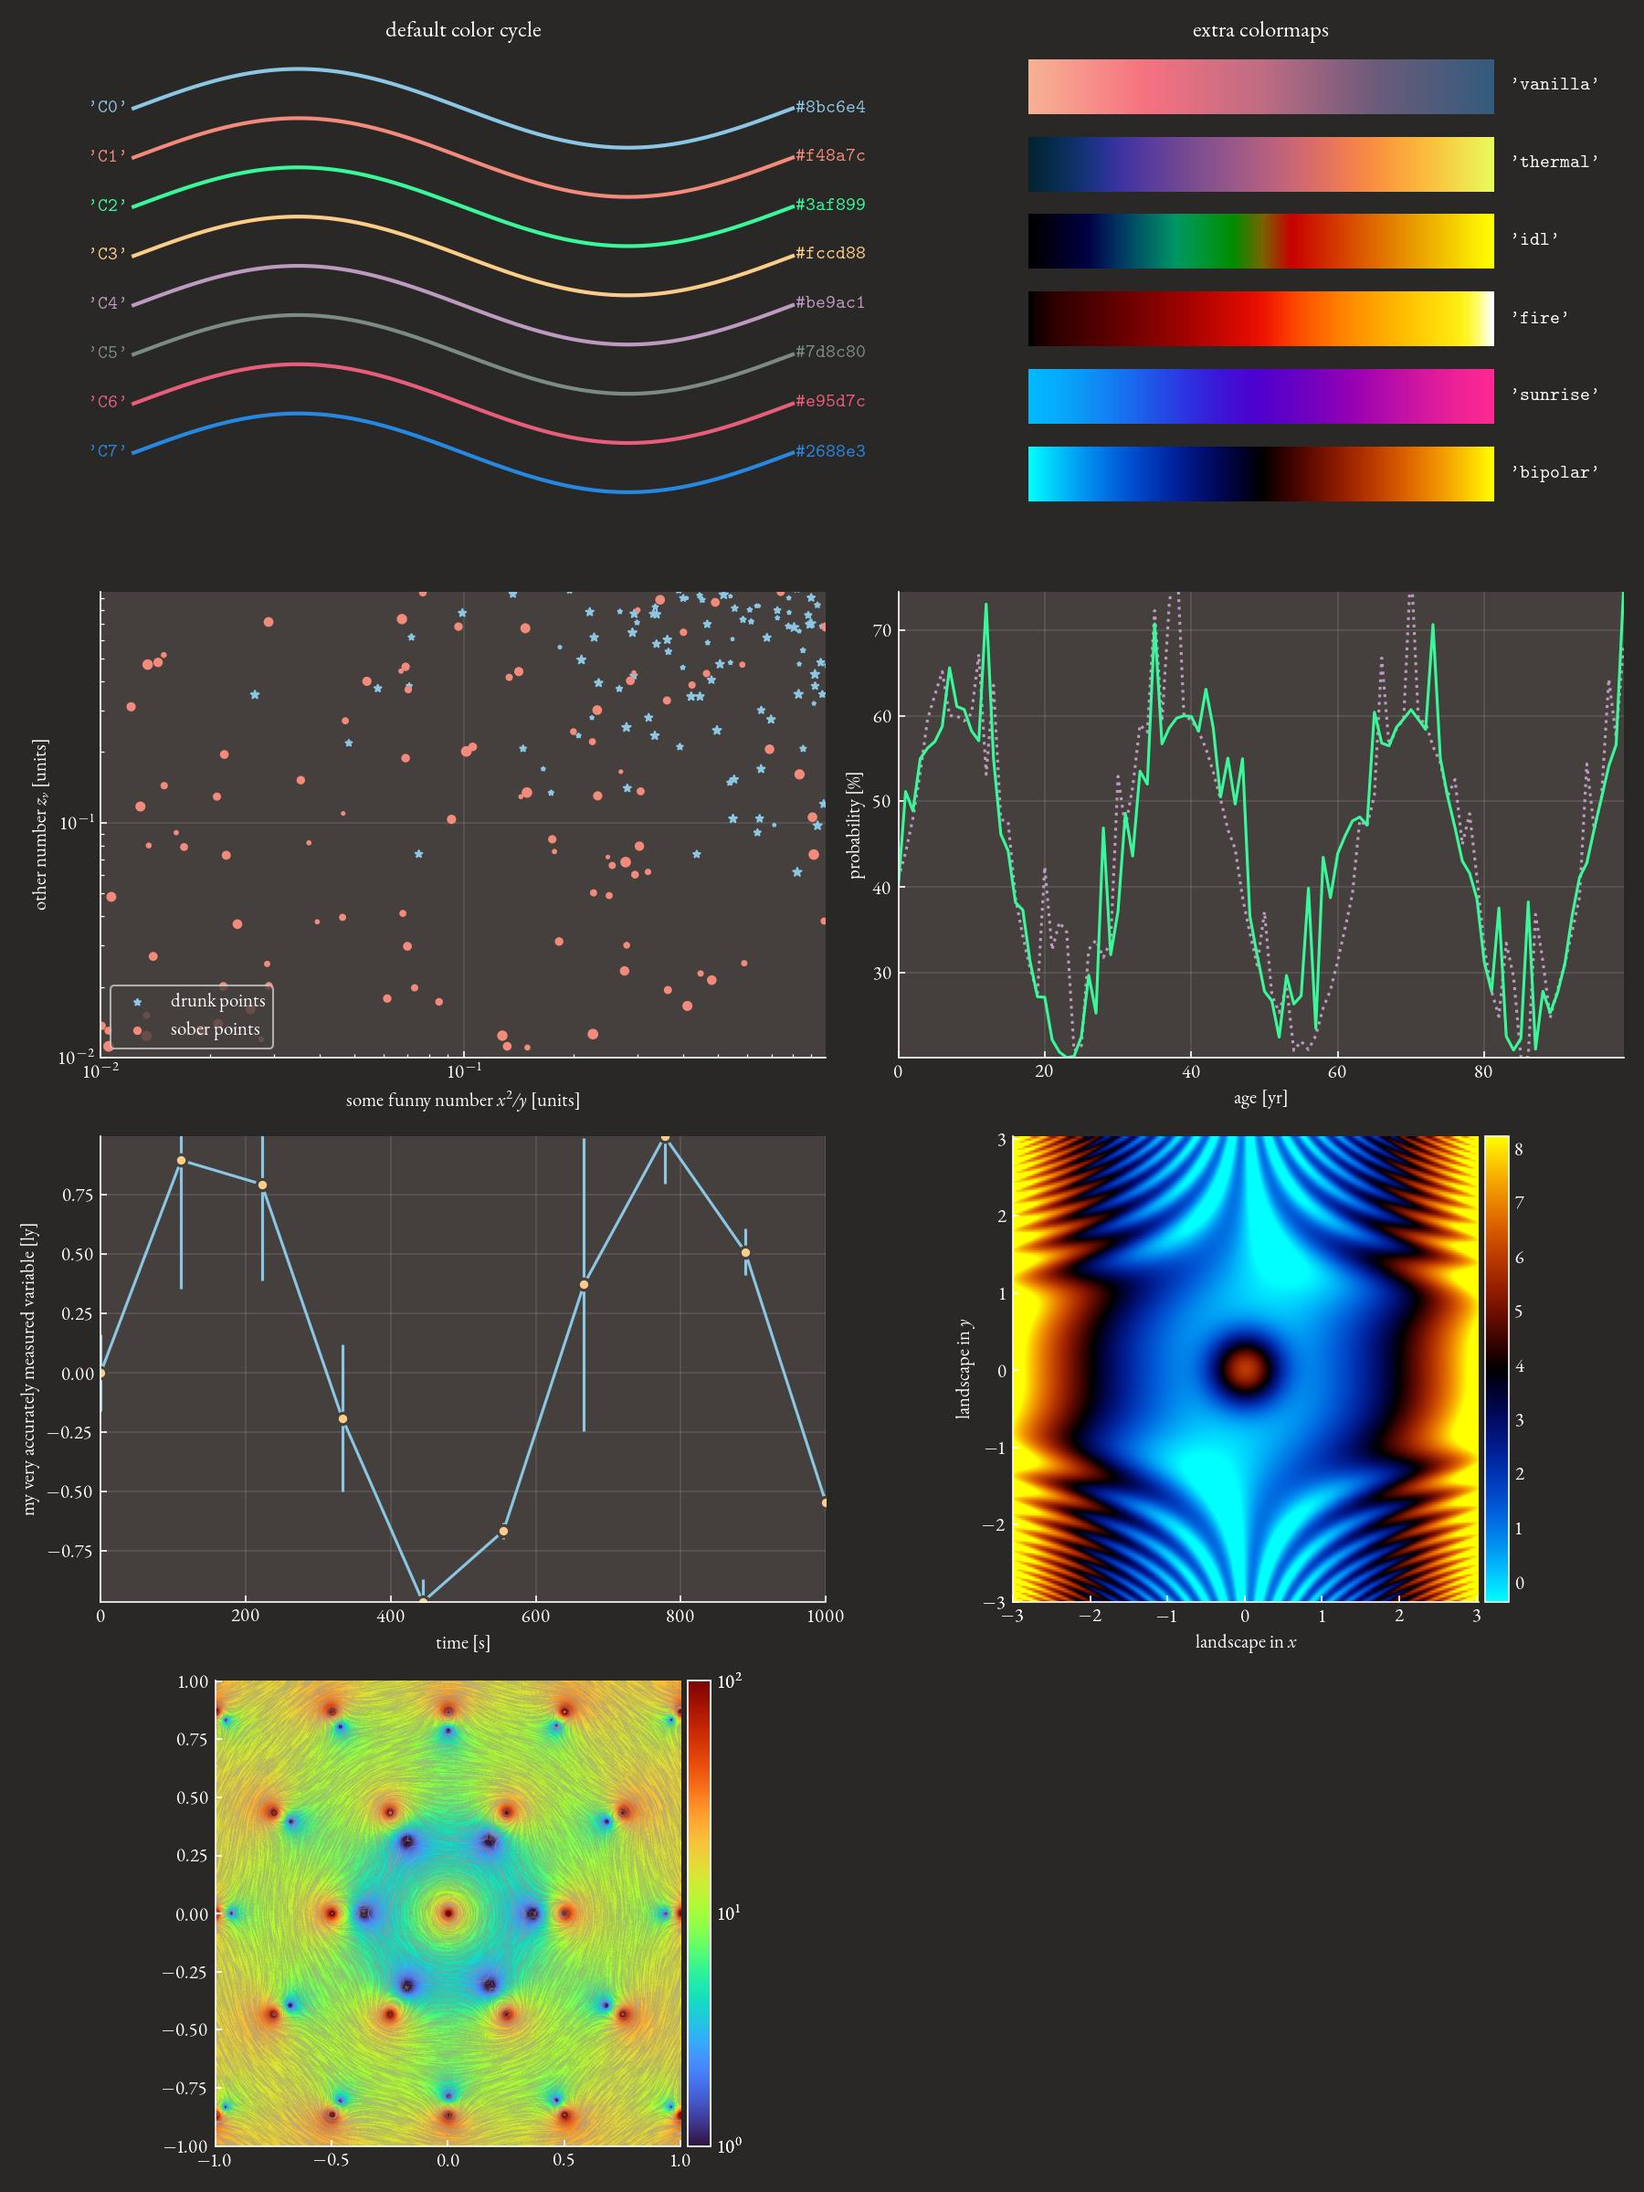
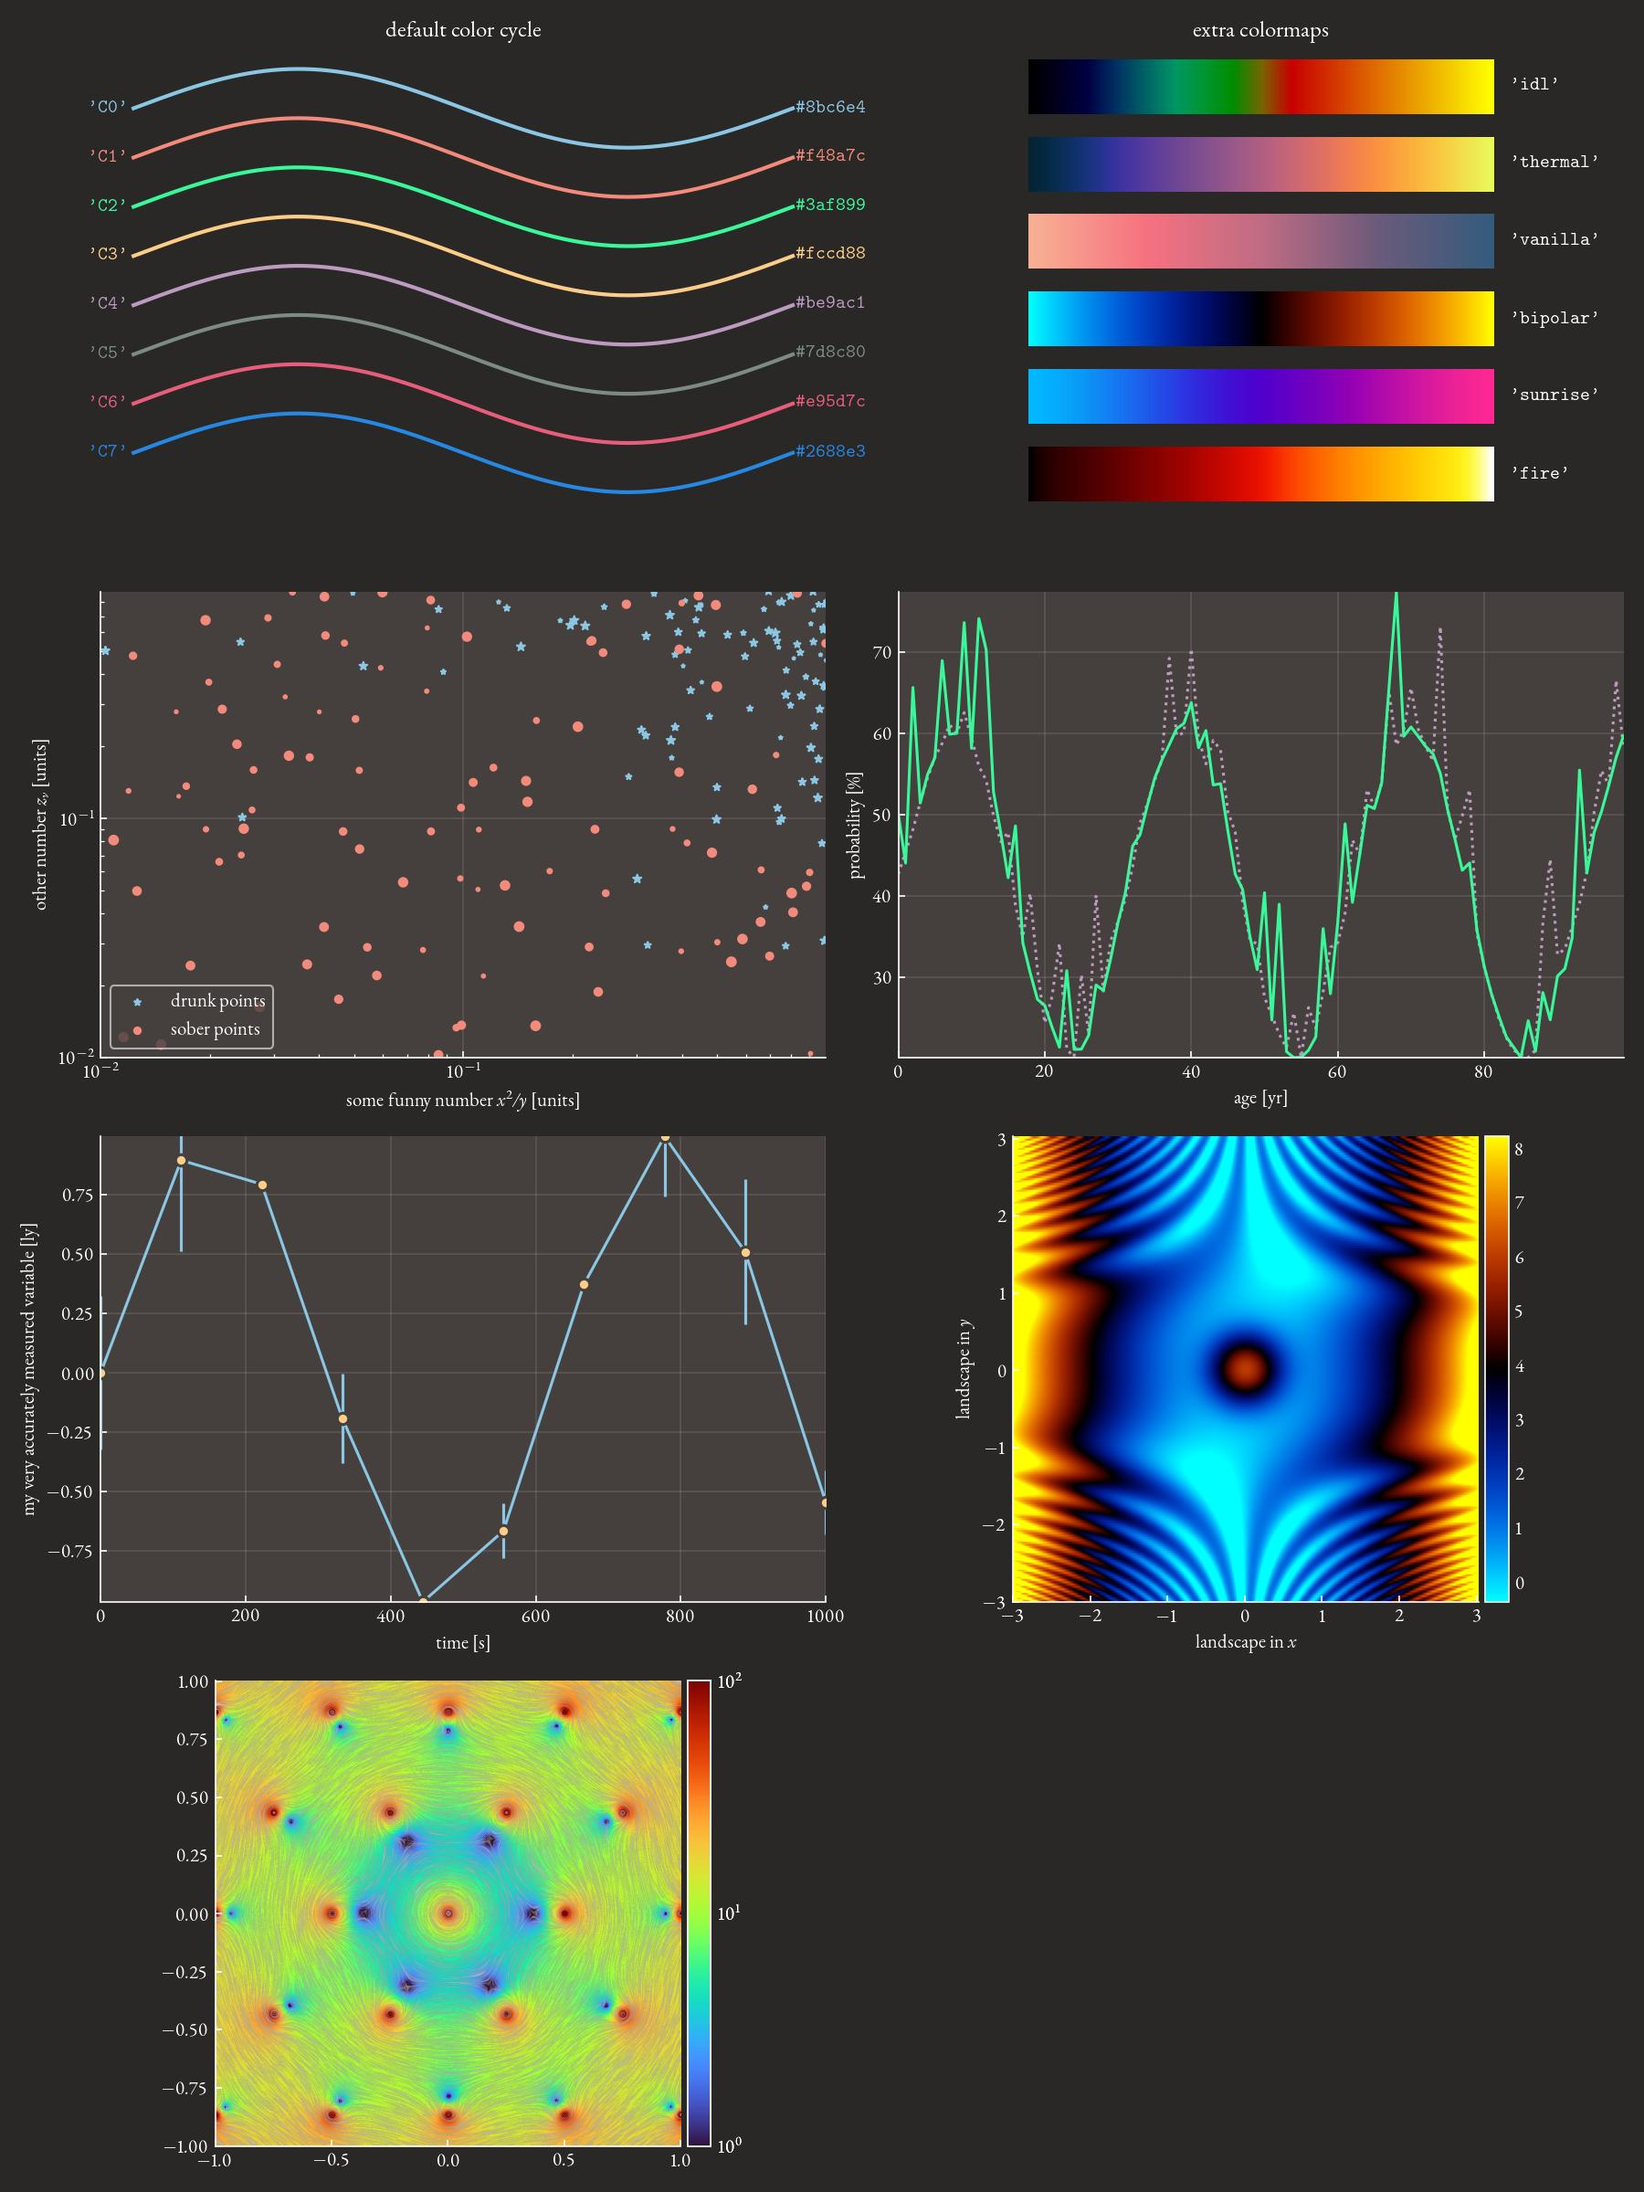
:fire: previews upd

diff --git a/previews/export_previews.py b/previews/export_previews.py
@@ -5,18 +5,25 @@ import matplotlib.pyplot as plt
 import myplotlib
 import myplotlib.tests as mypltests
 
-readme = ""
+if __name__ == "__main__":
+    readme = ""
 
-for st, fl in [
-    f.replace(".mplstyle", "").split(".")
-    for f in os.listdir("myplotlib/assets")
-    if f.endswith(".mplstyle")
-]:
+    for st, fl in [
+        f.replace(".mplstyle", "").split(".")
+        for f in os.listdir("myplotlib/assets")
+        if f.endswith(".mplstyle")
+    ]:
+        mpl.rcParams.update(mpl.rcParamsDefault)
+        myplotlib.load(st, fl)
+        mypltests.testAll()
+        plt.savefig(f"previews/{st}_{fl}.jpg")
+        readme += f"# `{st}.{fl}`\n\n![{st}_{fl}]({st}_{fl}.jpg)\n\n"
+
     mpl.rcParams.update(mpl.rcParamsDefault)
-    myplotlib.load(st, fl)
+    myplotlib.load(None, None)
     mypltests.testAll()
-    plt.savefig(f"previews/{st}_{fl}.jpg")
-    readme += f"# `{st}.{fl}`\n\n![{st}_{fl}]({st}_{fl}.jpg)\n\n"
+    plt.savefig(f"previews/None.jpg")
+    readme += f"# `None`\n\n![None](None.jpg)\n\n"
 
-with open("previews/README.md", "w") as f:
-    f.write(readme)
+    with open("previews/README.md", "w") as f:
+        f.write(readme)

diff --git a/previews/README.md b/previews/README.md
@@ -1,24 +1,28 @@
-# `fancy.dark`
+# `fancy.light`
 
-![fancy_dark](fancy_dark.jpg)
-
-# `hershey.dark`
-
-![hershey_dark](hershey_dark.jpg)
-
-# `mono.light`
-
-![mono_light](mono_light.jpg)
+![fancy_light](fancy_light.jpg)
 
 # `mono.dark`
 
 ![mono_dark](mono_dark.jpg)
 
+# `mono.light`
+
+![mono_light](mono_light.jpg)
+
+# `fancy.dark`
+
+![fancy_dark](fancy_dark.jpg)
+
 # `hershey.light`
 
 ![hershey_light](hershey_light.jpg)
 
-# `fancy.light`
+# `hershey.dark`
 
-![fancy_light](fancy_light.jpg)
+![hershey_dark](hershey_dark.jpg)
+
+# `None`
+
+![None](None.jpg)
 
